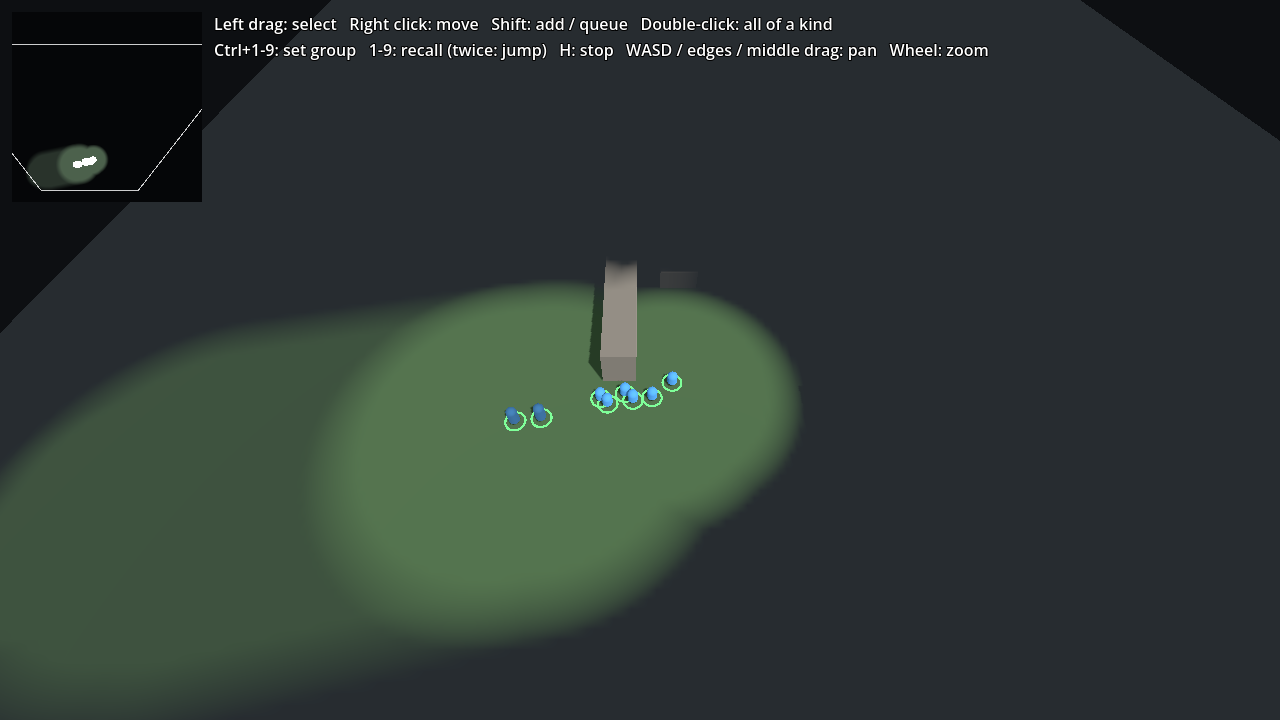
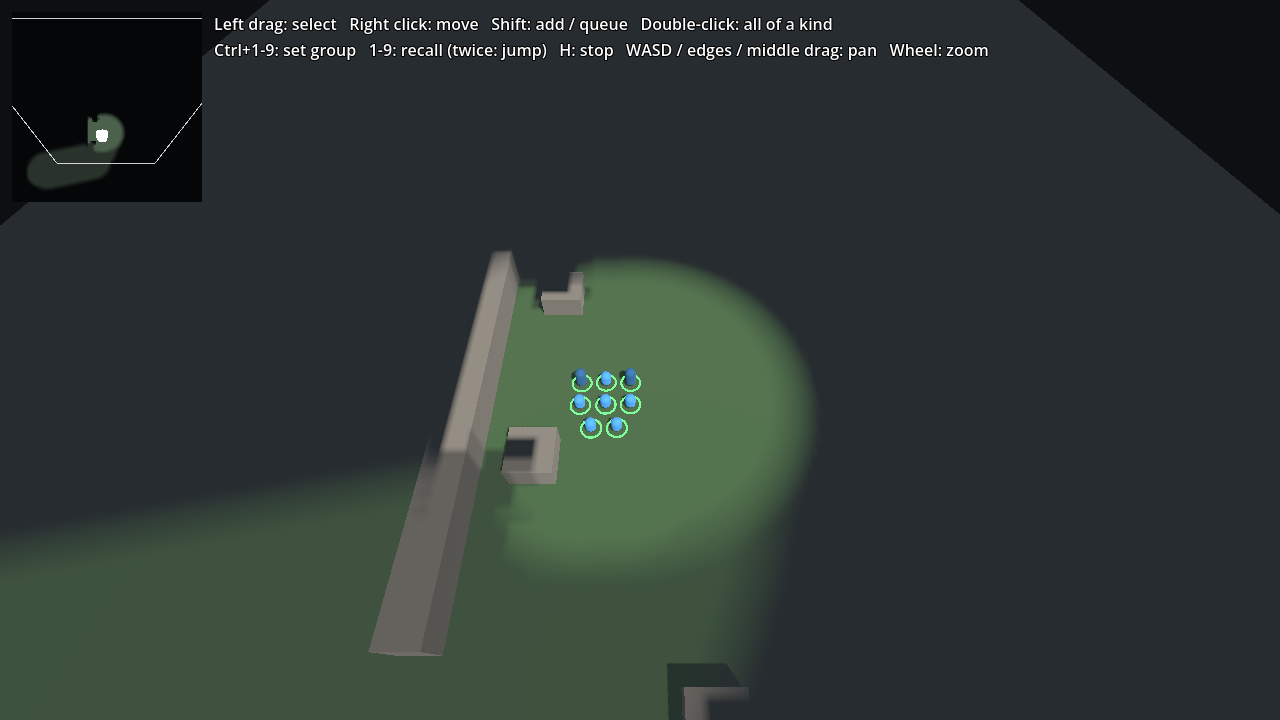
Fog: walls block sight when given a grid of what a wall is
RTSFogOfWar.sight_blockers takes an RTSNavGrid; each unit's circle is cut by
its solid cells. Off by default, so existing projects are unchanged. The demo
uses it with a second grid baked tight to the walls. 34 checks.

diff --git a/README.md b/README.md
@@ -106,8 +106,14 @@ func _ready() -> void:
   Compatibility renderer (desktop OpenGL and the browser demo), where the
   shroud works but blends differently: unexplored ground is black where
   Forward+ shows dark grey.
-- **Fog vision is a circle.** Nothing blocks line of sight yet: a unit sees
-  over walls.
+- **Walls block sight when you say what a wall is.** By default fog vision is
+  a circle and a unit sees over everything. Set `fog.sight_blockers` to an
+  `RTSNavGrid` and each circle is cut by that grid's solid cells: a unit sees
+  the near face of a wall and nothing behind it, and an enemy behind one is
+  hidden. Bake a second grid for it with a small `clearance` (the demo uses
+  0.4), because the path grid fattens walls by a unit's width. Shadow edges
+  are as coarse as the grid's cells, and height is not considered: a unit on
+  a hill does not see over a wall below it.
 - **The camera does not rotate.** Panning already respects the rig's yaw if
   you rotate it yourself.
 
@@ -115,7 +121,7 @@ func _ready() -> void:
 
 ```bash
 godot --headless --path . --import                    # once, on a fresh checkout
-godot --headless --path . -s tests/run_tests.gd       # 29 checks
+godot --headless --path . -s tests/run_tests.gd       # 34 checks
 godot --headless --path . -s tools/arrival_check.gd   # units reach their orders
 godot --path . -s tools/screenshot.gd                 # windowed: redraws docs/screenshot.png
 godot --path . --fixed-fps 60 -s tools/record_gif.gd  # windowed: frames for the GIF, then
